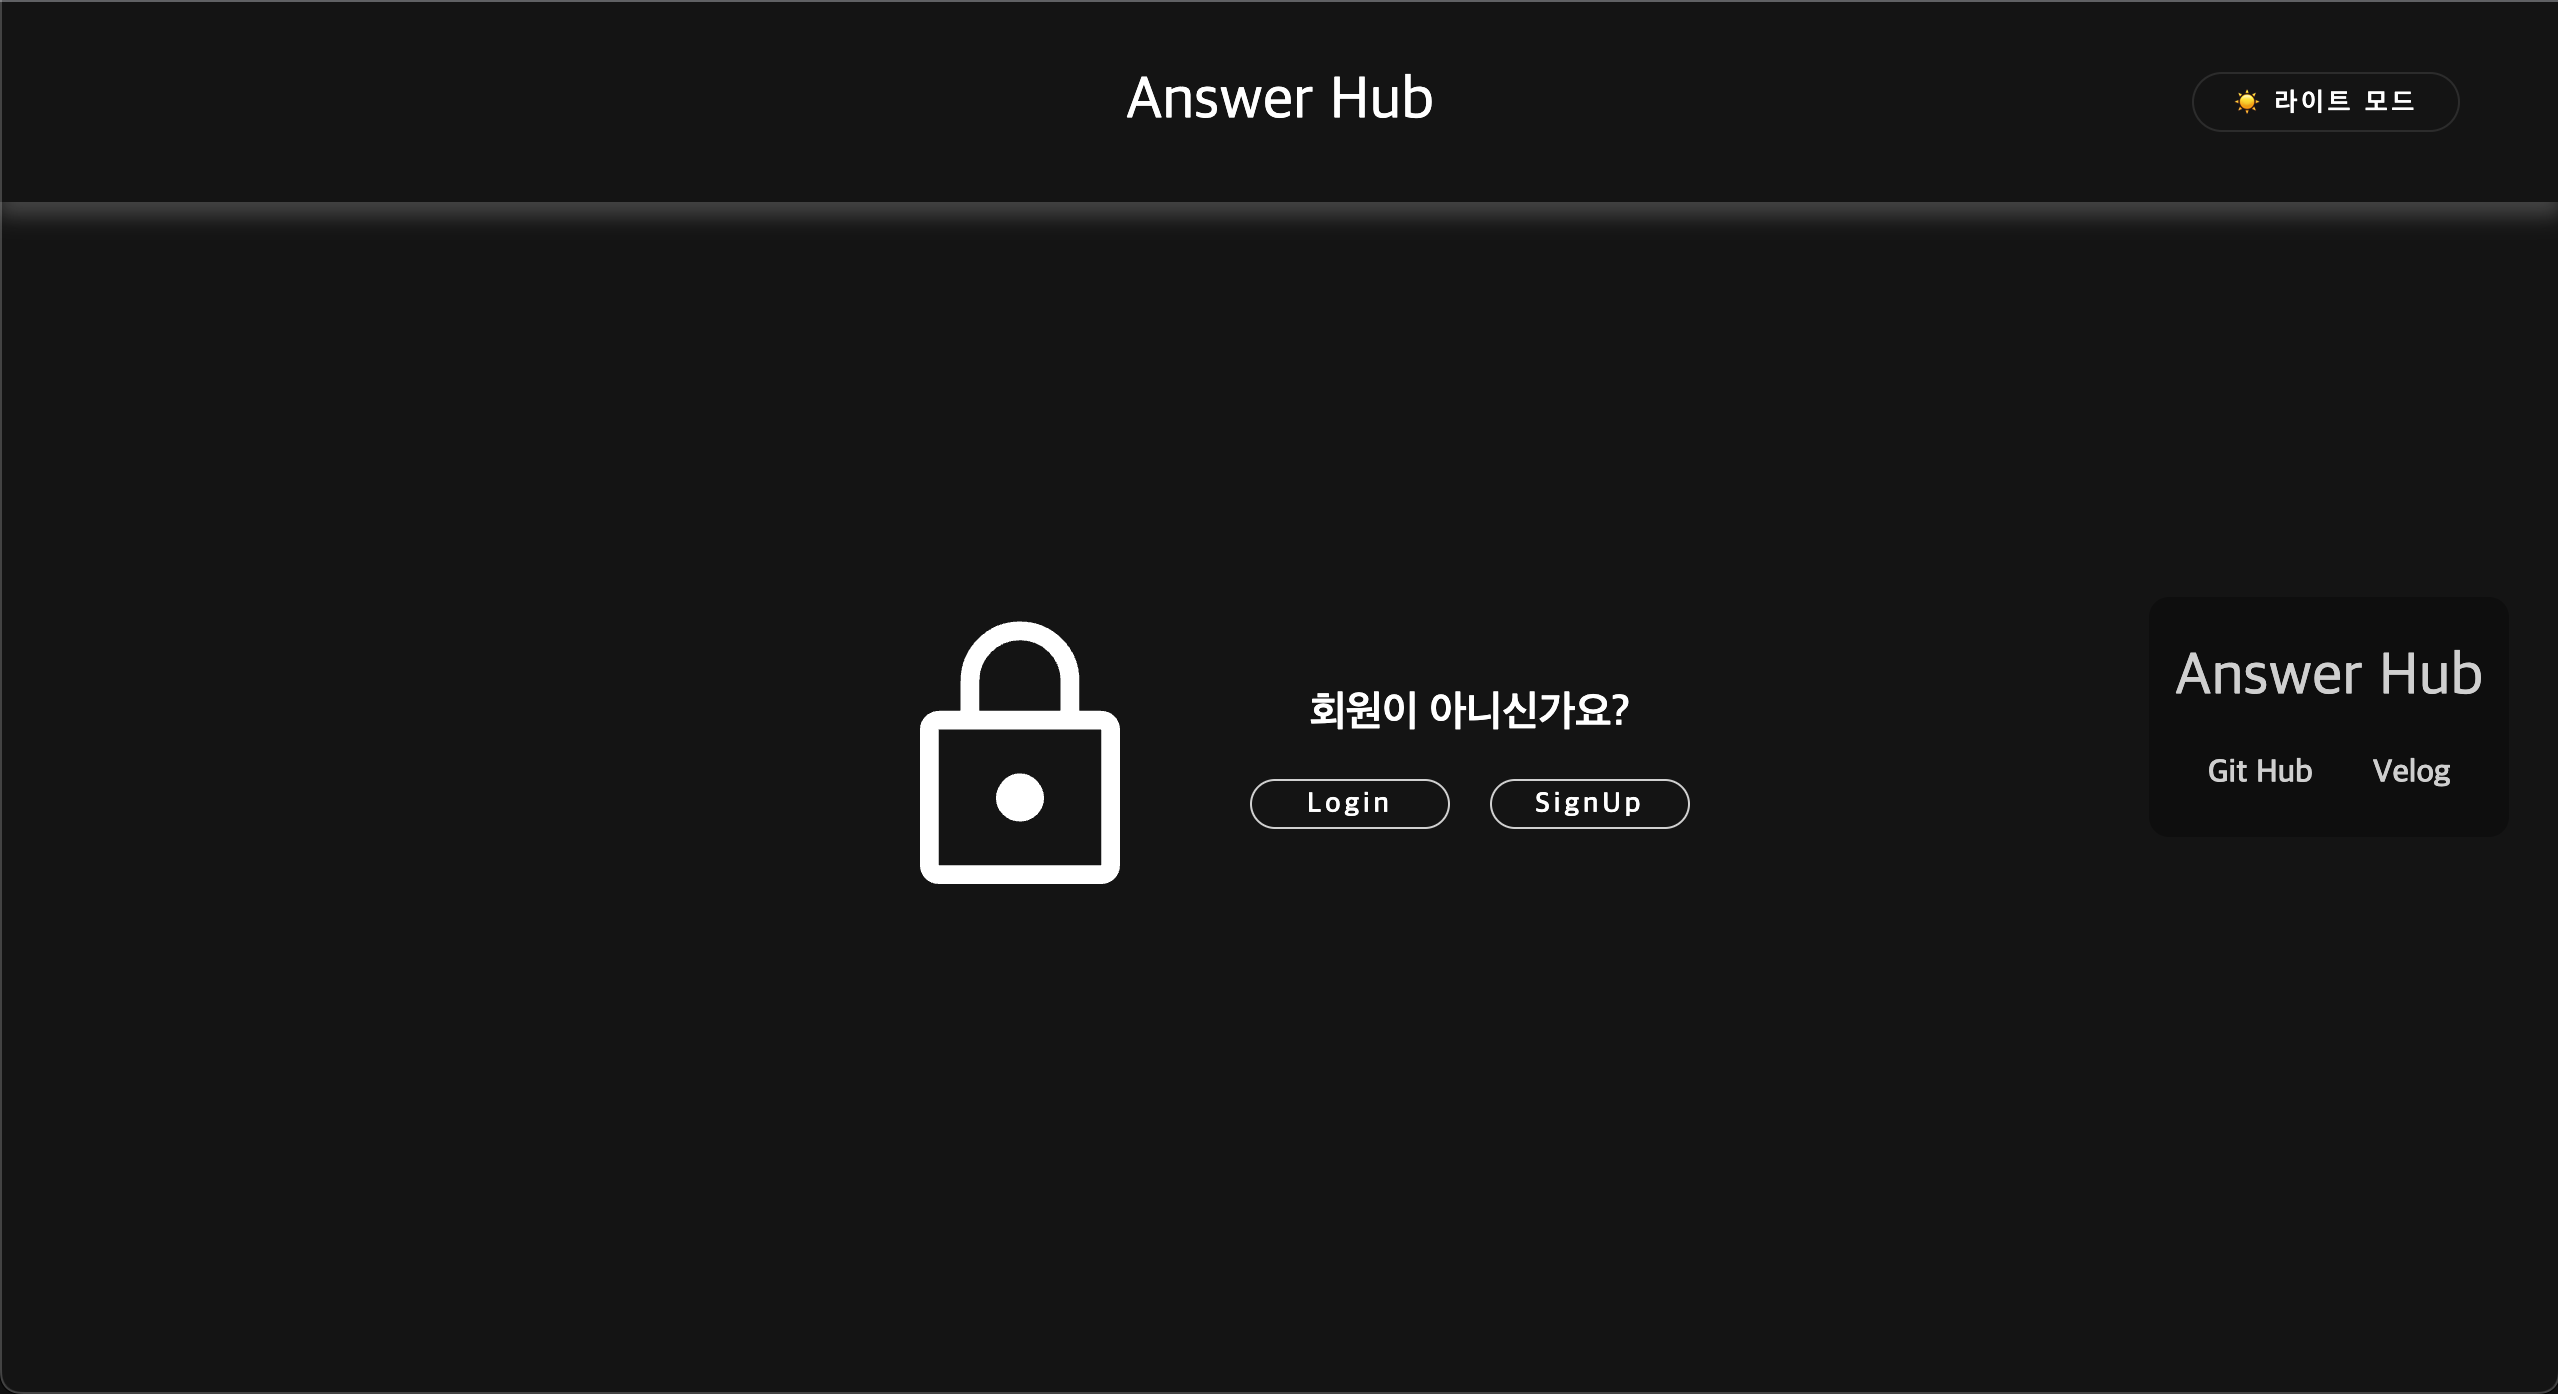
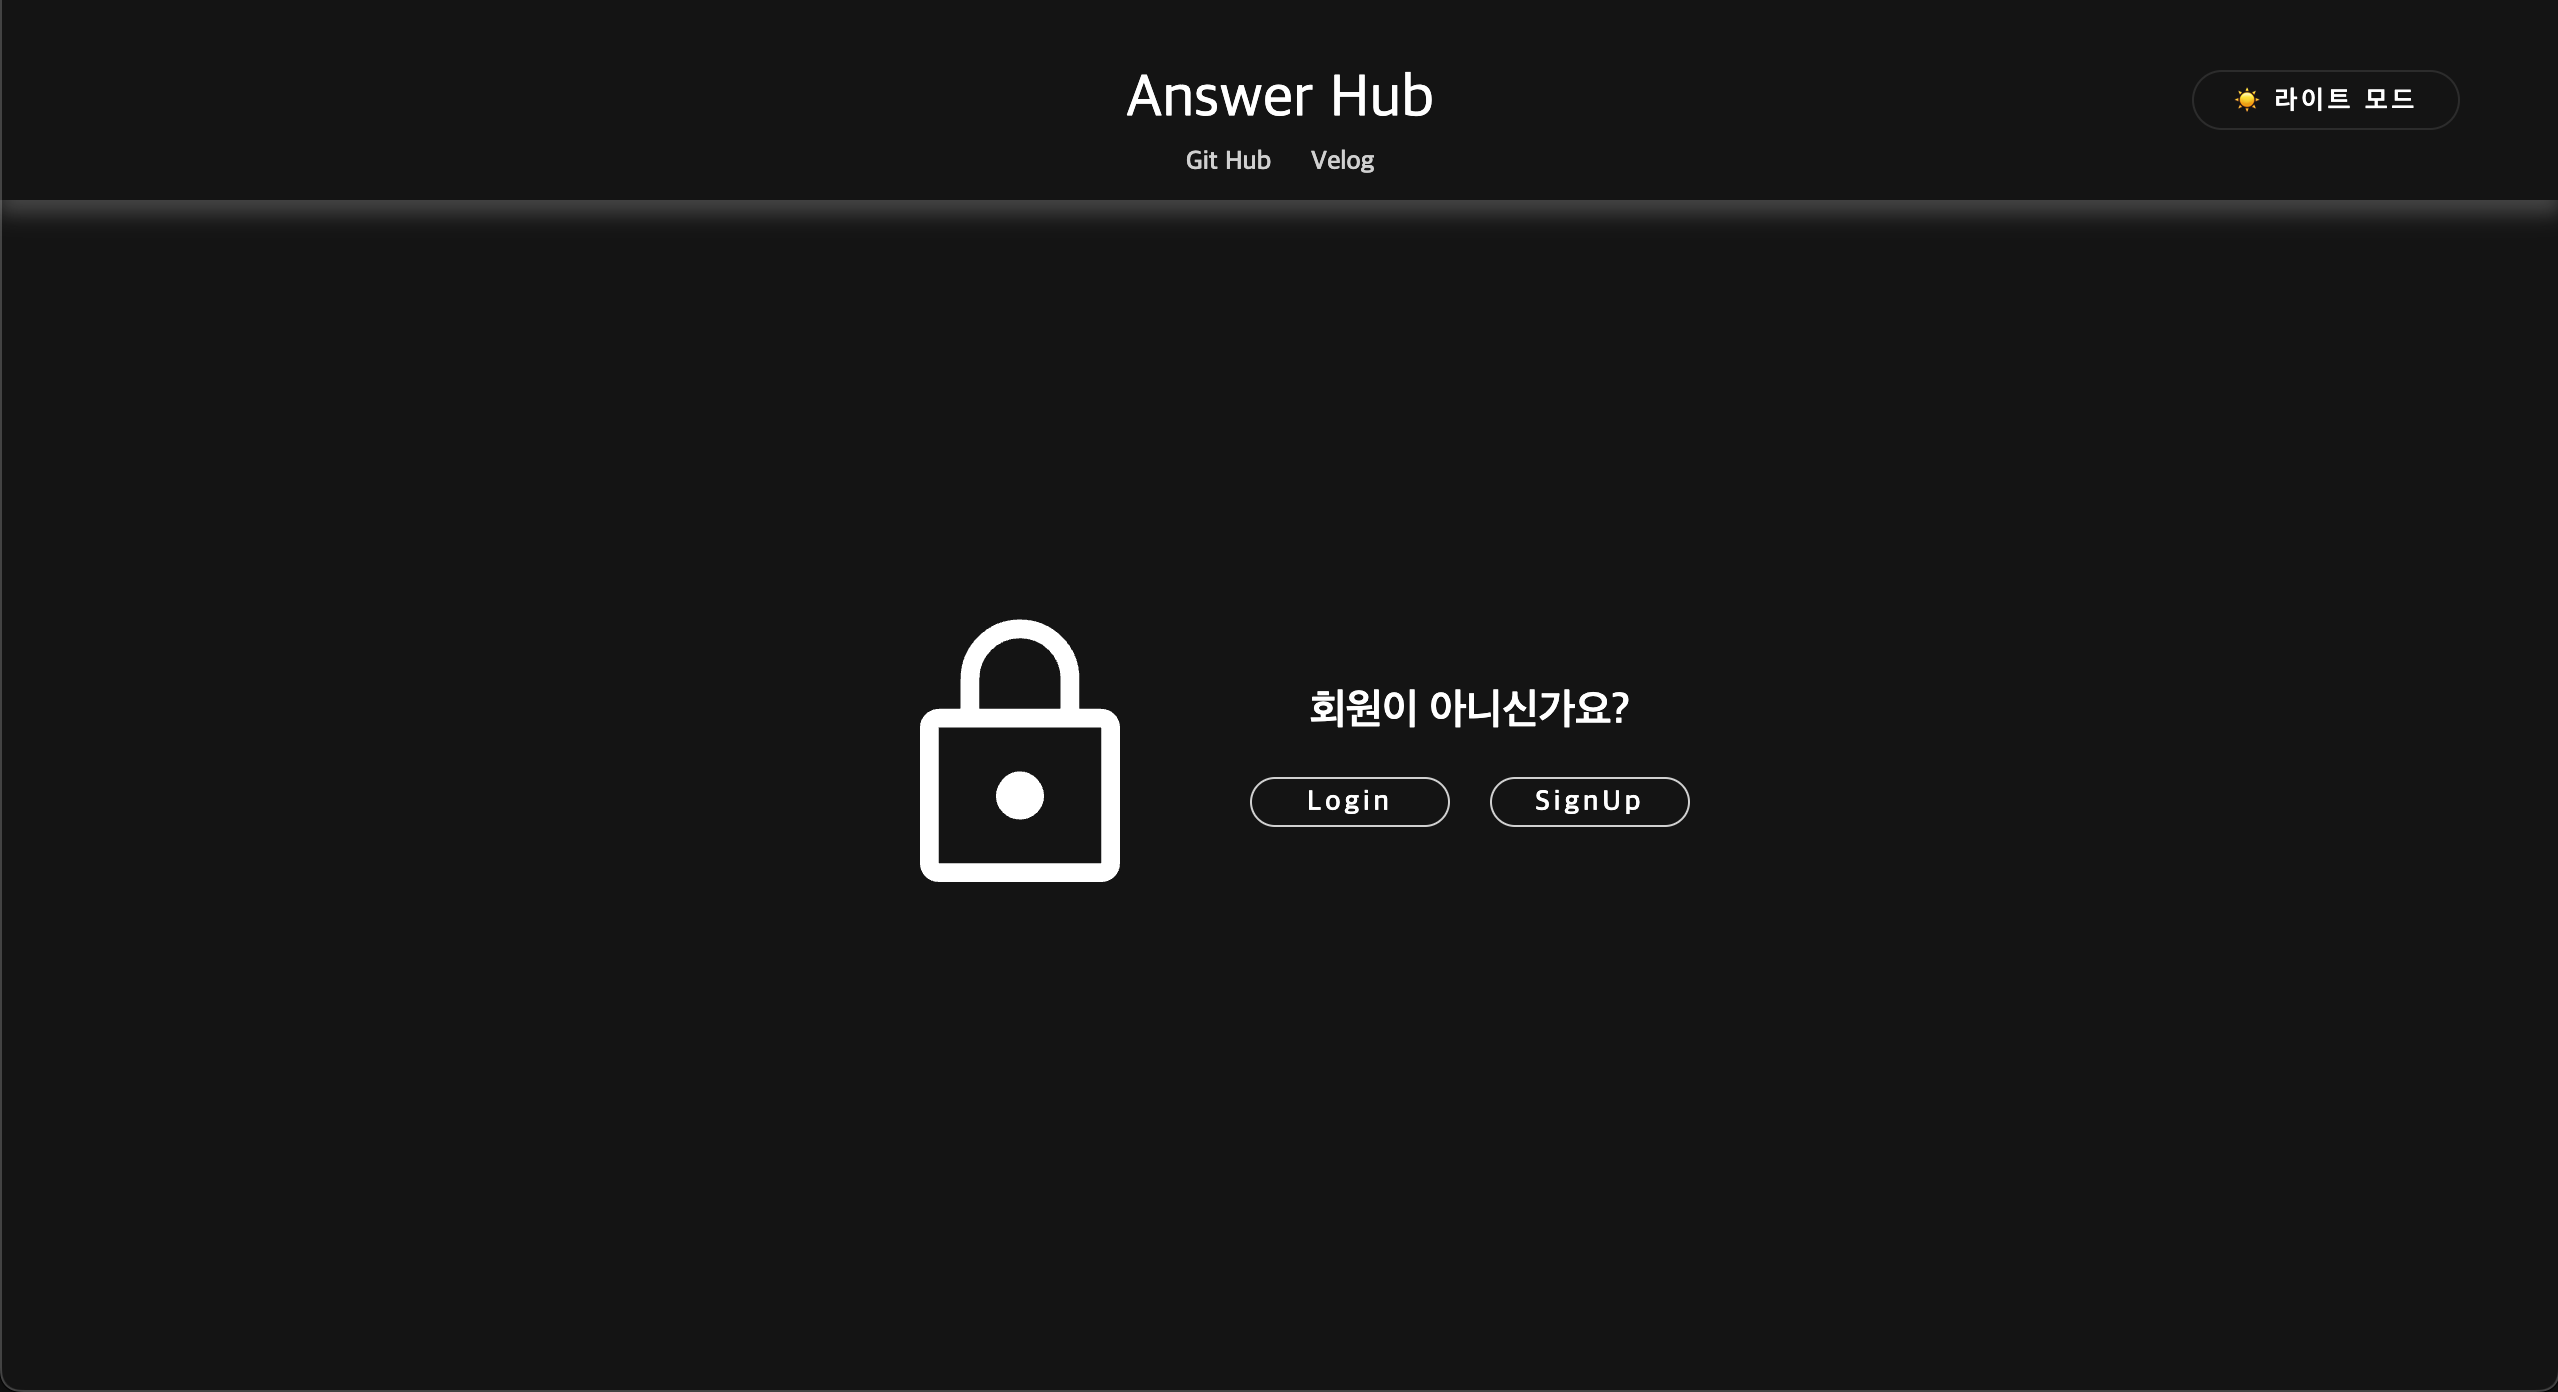
build readme.md

diff --git a/index.html b/index.html
@@ -53,8 +53,8 @@
         <a href="https://github.com/myeongin0926" target="_black"
           ><span>Git Hub</span></a
         >
-        <a href="https://velog.io/@myeongin0926" target="_black"
-          ><span>Velog</span></a
+        <a∫ href="https://velog.io/@myeongin0926" target="_black"
+          ><span>Velog</span></a∫
         >
        </div>
         <button class="darkmode btn">🌕 다크 모드</button>
@@ -159,3 +159,4 @@
 
   </body>
 </html>
+

diff --git a/index.js b/index.js
@@ -312,13 +312,6 @@ sideOpenBtnEl.addEventListener("click", () => {
   bodyClass.add("show");
   sideEl.classList.toggle("open");
 });
-window.addEventListener("keydown", (e) => {
-  if (e.code === "Escape") {
-    console.log("userList", userList);
-    console.log("loggedUser", loggedUser);
-    console.log("boardList", boardList);
-  }
-});
 
 //글쓰기 버튼 조정
 writingBtnEl.addEventListener("click", () => {

diff --git a/README.md b/README.md
@@ -3,20 +3,18 @@
   <br>
 <center>
 html, css, js과 Local Storage를 사용해 구현한 Answer Hub, 질문 모음공간 입니다.
-<br><br><br>
+<br><br>
+<img src="./main.png" alt="메인 이미지">
+
+<br>
+
+[데모 바로가기](https://notice-board-mu.vercel.app/)
 
 ## 기능 목록
 
-|               |
-| :-----------: |
-|   다크모드    |
-|   회원가입    |
-|    로그인     |
-|  아이디 찾기  |
-| 패스워드 변경 |
-|   회원탈퇴    |
-|    글쓰기     |
-|    글 삭제    |
+|                                                                                          |
+| :--------------------------------------------------------------------------------------: |
+| 다크모드 , 회원가입 , 로그인 , 아이디 찾기 , 패스워드 변경 , 회원탈퇴 , 글쓰기 , 글 삭제 |
 
 <br>
 
